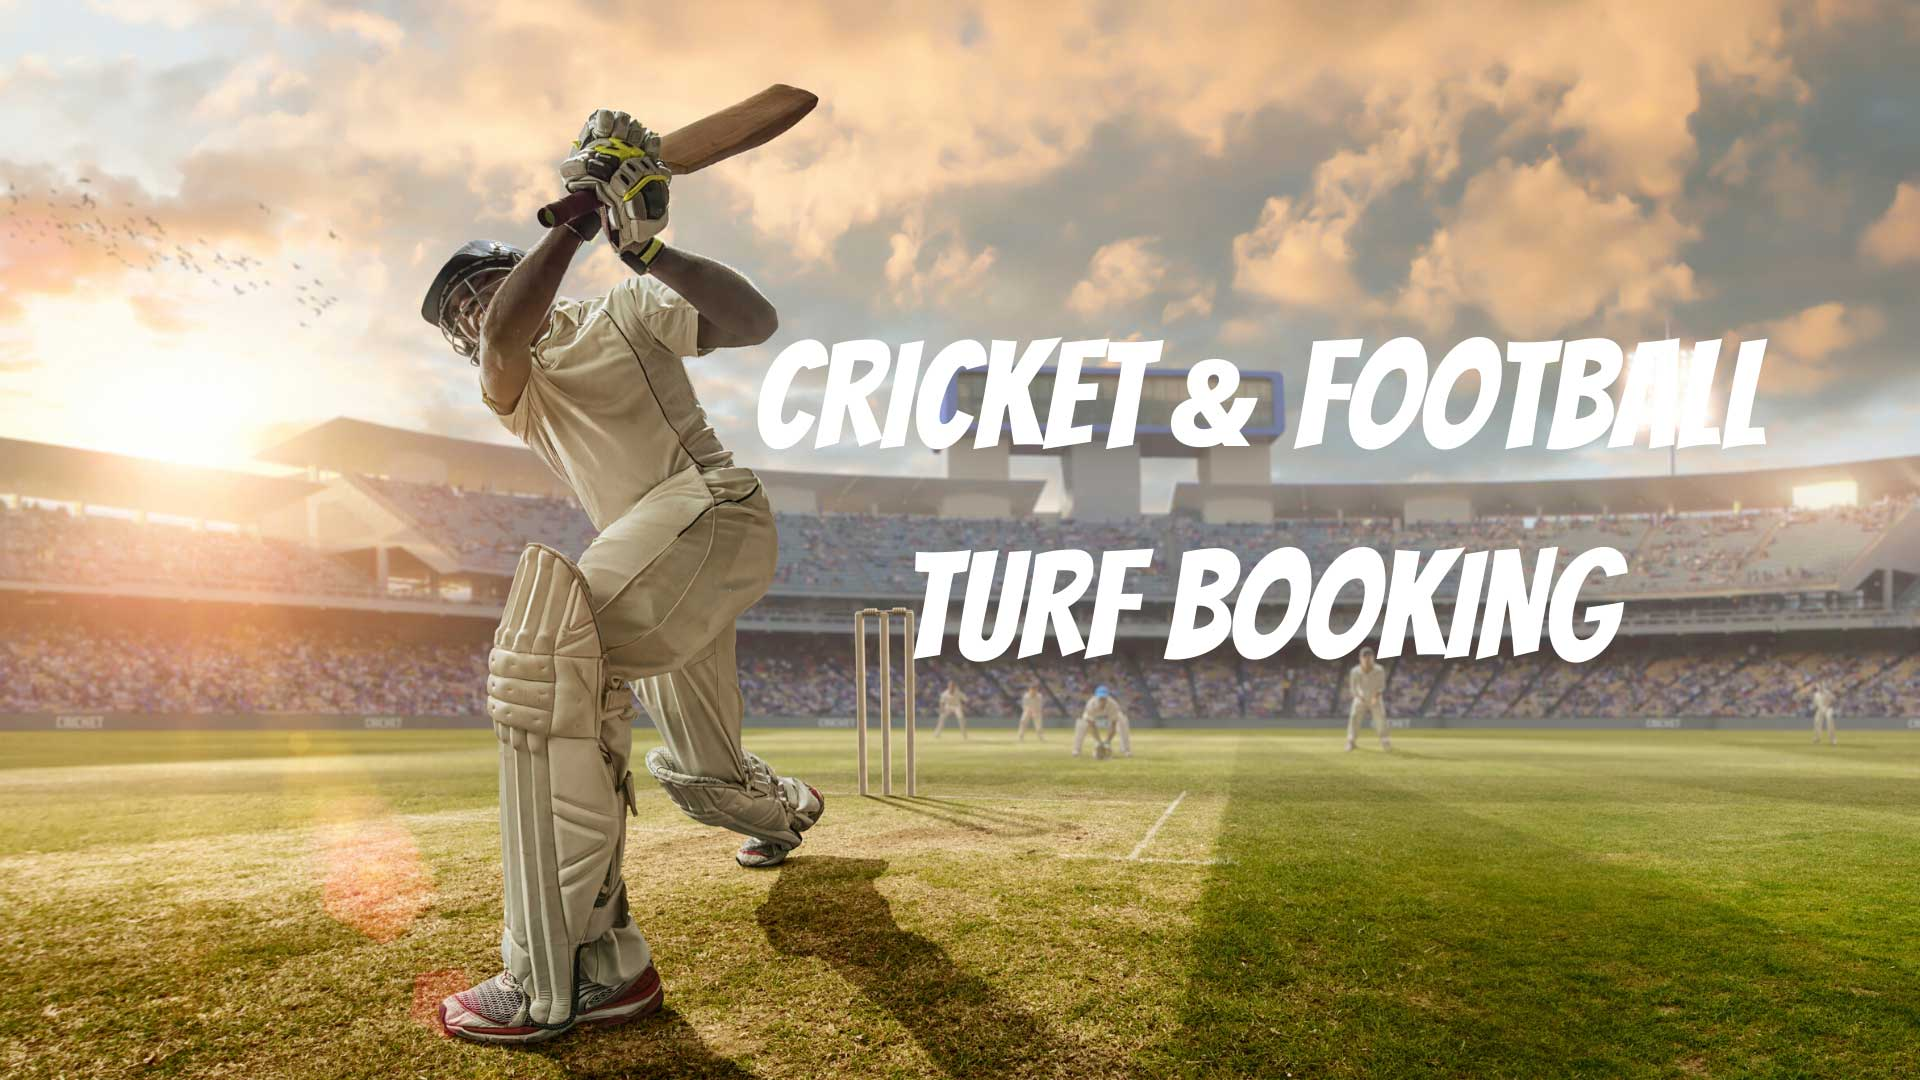
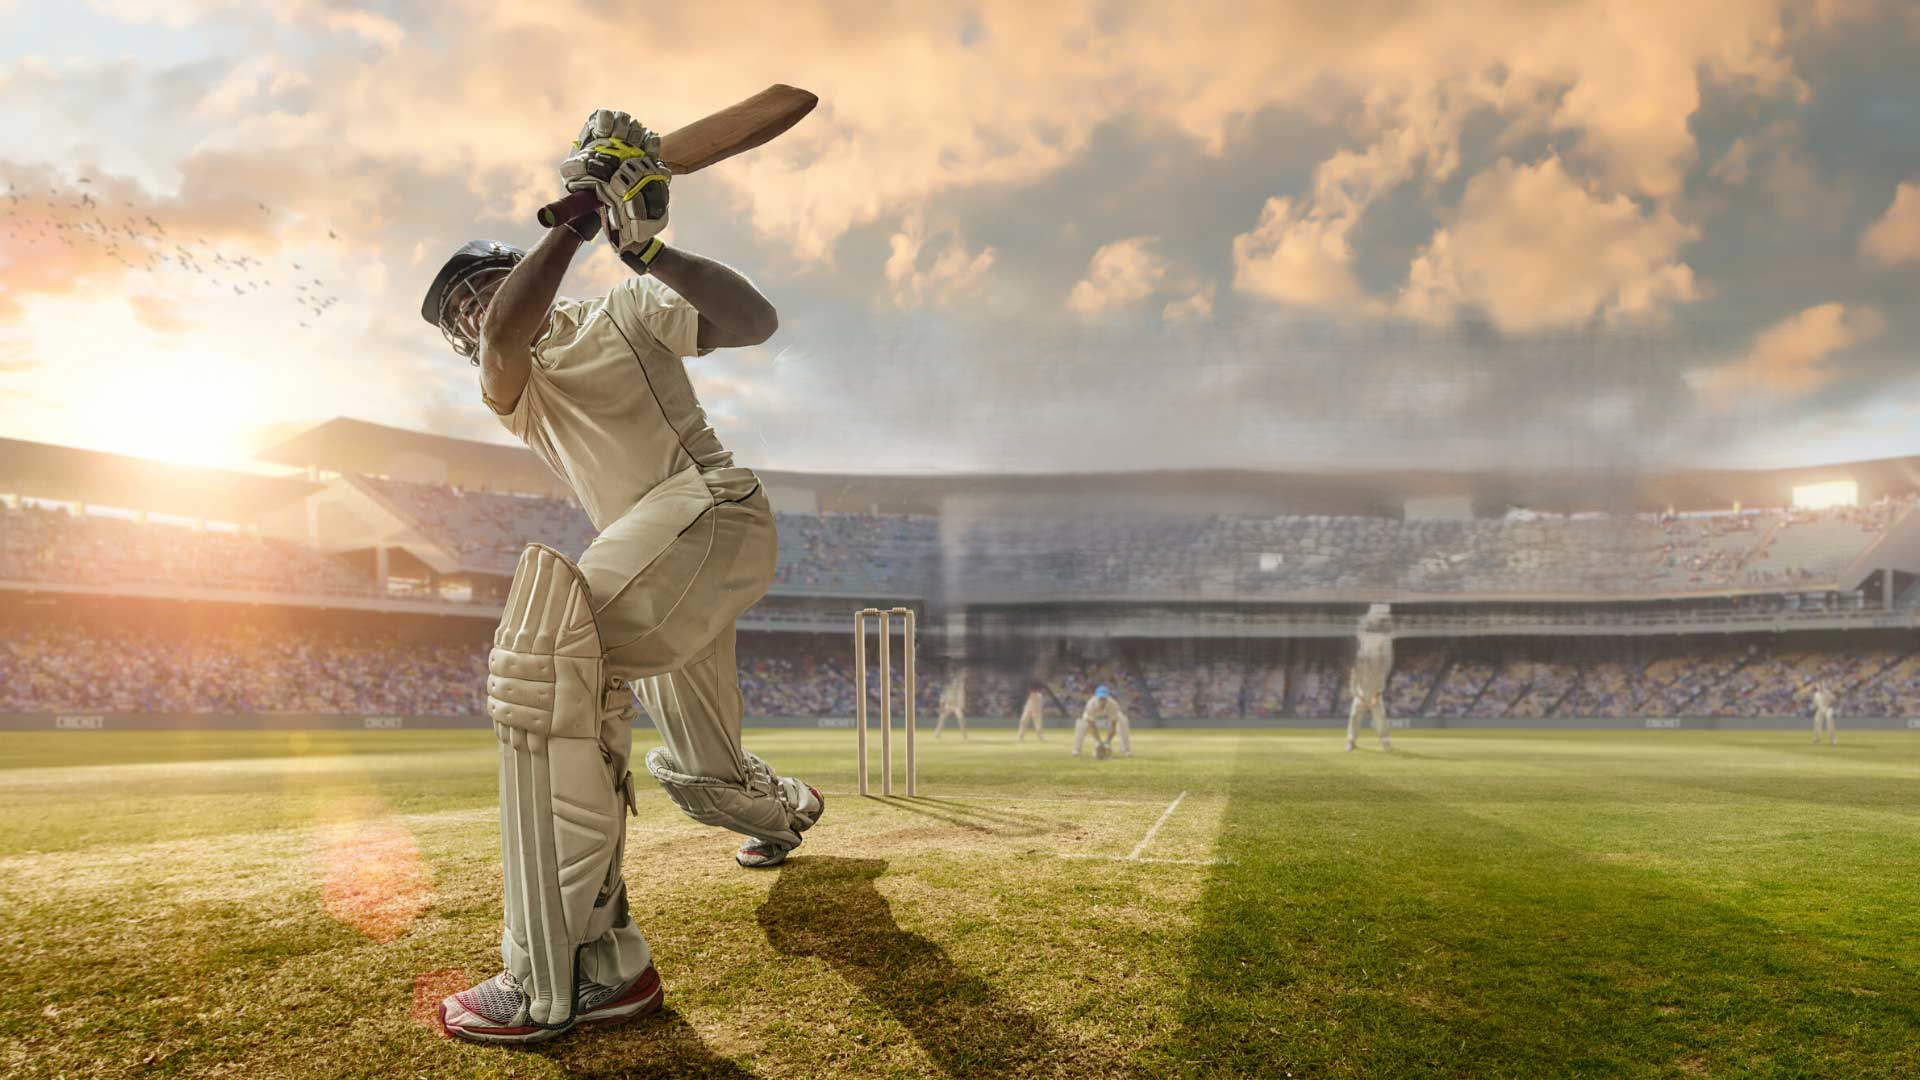
explore turf css

Changed region(s): [[0.375, 0.275, 0.9375, 0.6722]]

diff --git a/src/app/user/exploreturf/[id]/page.tsx b/src/app/user/exploreturf/[id]/page.tsx
@@ -90,48 +90,98 @@ export default function Explore() {
   if (!turf) return <div className="flex justify-center items-center min-h-screen">No Turf Found</div>;
 
   return (
-    <div className="min-h-screen flex justify-center items-center p-6 bg-gray-100">
-      <div className="max-w-4xl w-full bg-white shadow-lg rounded-lg overflow-hidden grid grid-cols-1 md:grid-cols-2 gap-6 p-6">
-        <div>
-          <h1 className="text-3xl font-bold text-gray-800">{turf.name}</h1>
-          <p className="text-lg text-gray-600 mt-1">{turf.location}</p>
-          <div className="mt-4 grid gap-4">
-            <div className="bg-gray-100 p-4 rounded-md">
-              <p className="text-gray-500 text-sm">Size</p>
-              <p className="font-semibold">{turf.size}</p>
-            </div>
-            <div className="bg-gray-100 p-4 rounded-md">
-              <p className="text-gray-500 text-sm">Capacity</p>
-              <p className="font-semibold">{turf.capacity} people</p>
-            </div>
-            <div className="bg-gray-100 p-4 rounded-md">
-              <p className="text-gray-500 text-sm">Amenities</p>
-              <p className="font-semibold">{turf.amenities.join(", ")}</p>
-            </div>
-            <div className="bg-gray-100 p-4 rounded-md">
-              <p className="text-gray-500 text-sm">Description</p>
-              <p className="text-sm text-gray-700">{turf.description}</p>
-            </div>
-            <div className="bg-gray-100 p-4 rounded-md">
-              <p className="text-gray-500 text-sm">Location</p>
-              <p className="text-sm text-gray-700">{turf.location}</p>
-            </div>
-          </div>
-          <button
-            onClick={handleOrderTurf}
-            className="mt-6 w-full bg-green-600 text-white py-2 rounded-md hover:bg-green-700 transition"
-          >
-            Book Now
-          </button>
+    // <div>
+    //   <div>
+    //     <div>
+    //       <h1 >{turf.name}</h1>
+    //       <p >{turf.location}</p>
+    //       <div >
+    //         <div >
+    //           <p >Size</p>
+    //           <p >{turf.size}</p>
+    //         </div>
+    //         <div >
+    //           <p >Capacity</p>
+    //           <p >{turf.capacity} people</p>
+    //         </div>
+    //         <div >
+    //           <p >Amenities</p>
+    //           <p >{turf.amenities.join(", ")}</p>
+    //         </div>
+    //         <div >
+    //           <p >Description</p>
+    //           <p >{turf.description}</p>
+    //         </div>
+    //         <div >
+    //           <p >Location</p>
+    //           <p >{turf.location}</p>
+    //         </div>
+    //       </div>
+    //       <button
+    //         onClick={handleOrderTurf}
+           
+    //       >
+    //         Book Now
+    //       </button>
+    //     </div>
+    //     <div>
+    //       <img
+    //         src={turf.images && turf.images.length > 0 ? turf.images[0] : "/fallback-image.jpg"}
+    //         alt={turf.name}
+           
+    //       />
+    //     </div>
+    //   </div>
+    // </div>
+    <>
+ <div className="h-[100vh] w-[100%] bg-white text-black flex justify-center items-center ">
+ <div className="h-[80%] w-[80%] bg-white flex flex-col gap-14">
+      <div className="flex justify-between px-10"> <span className="font-bold text-3xl">{turf.name}</span> <button className="bg-green-500 rounded-lg px-2 py-3 mr-3">book now</button></div>
+      <div className="flex  text-white ">
+       <div className="flex w-[50%] gap-10">
+        <div className="flex flex-col gap-8 w-[30%]  items-center text-black">
+        <div className="flex flex-col gap-1 text-center py-5 w-[100%] bg-white rounded-xl shadow-lg transition-all duration-300 hover:shadow-2xl hover:scale-105">
+  <span className="text-lg opacity-50">Size</span>
+  <span>{turf.size}</span>
+  <span className="text-lg opacity-50">Capacity</span>
+  <span>{turf.capacity}</span>
+</div>
+
+<div className="flex flex-col gap-1 text-center w-[100%] py-5 bg-white rounded-xl shadow-lg transition-all duration-300 hover:shadow-2xl hover:scale-105">
+  <span className="text-lg opacity-50">Amenities</span>
+  <span>{turf.amenities}</span>
+</div>
+
         </div>
-        <div>
-          <img
-            src={turf.images && turf.images.length > 0 ? turf.images[0] : "/fallback-image.jpg"}
-            alt={turf.name}
-            className="w-full h-full object-cover rounded-lg"
-          />
-        </div>
+        <div className="flex flex-col w-[50%] gap-8 text-black">
+  <div className="w-[100%] flex flex-col py-5 px-3 bg-white text-black rounded-xl shadow-lg transition-all duration-300 hover:shadow-2xl hover:scale-105">
+    <span className="opacity-50 text-center">description</span>
+    <span className="text-center">
+      Lorem ipsum, dolor sit amet consectetur adipisicing elit. Modi, assumenda!
+      Lorem, ipsum dolor sit amet consectetur adipisicing elit. Magnam, temporibus.
+    </span>
+  </div>
+  <div className="flex flex-col w-[100%] py-5 px-3 bg-white text-black rounded-xl shadow-lg transition-all duration-300 hover:shadow-2xl hover:scale-105">
+    <span className="opacity-50 text-center">location</span>
+    <span className="text-center">
+      Lorem ipsum, dolor sit amet consectetur adipisicing {turf.location}
+    </span>
+  </div>
+</div>
+
+       </div>
+       <div className="h-[100%] w-[50%] ">
+       <img 
+             className="h-96 rounded-3xl"
+             src={turf.images && turf.images.length > 0 ? turf.images[0] : "/fallback-image.jpg"}
+             alt={turf.name}
+           
+        />
+       </div>
       </div>
     </div>
+     
+ </div>
+    </>
   );
 }

diff --git a/src/app/page.tsx b/src/app/page.tsx
@@ -139,8 +139,8 @@ export default function Home() {
       )}
 
       {/* Hero Section */}
-      <section className="relative w-full h-[70vh] bg-cover bg-center flex flex-col items-center justify-center text-white text-center" style={{ backgroundImage: "url('/image.png')" }}>
-        <div className="absolute inset-0 bg-black bg-opacity-50"></div>
+      <section className="relative w-full h-[100vh] bg-cover bg-center flex flex-col items-center justify-center text-white text-center" style={{ backgroundImage: "url('/image.png')" }}>
+        <div className="absolute inset-0 bg-black bg-opacity-0"></div>
         <div className="relative z-10">
           <h1 className="text-4xl font-bold">Book Your Game, Anytime, Anywhere!</h1>
           <p className="mt-2 text-lg">Find and book the best turfs near you</p>
